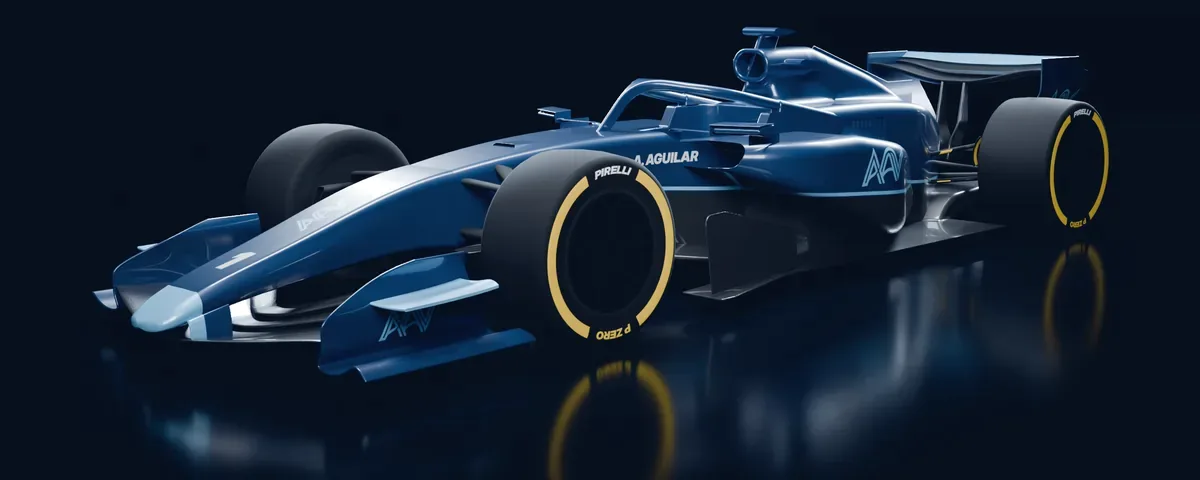
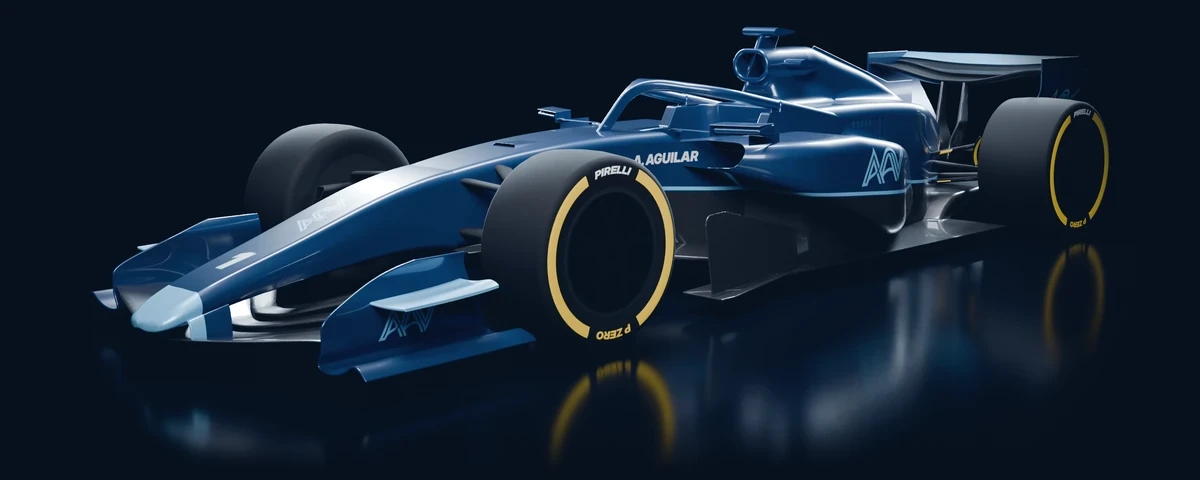
Hero: full-size centred car, image edges baked to page ground colour
Claude-Session: https://claude.ai/code/session_01YNAsmPSstyy3ufzkRWSRBH

diff --git a/index.html b/index.html
@@ -403,7 +403,7 @@ body::before{content:"";position:fixed;inset:0 0 auto;height:env(safe-area-inset
 .mode-figs dd{margin:0;font-size:16px;color:var(--ink-2)}
 .mode-figs b{font-weight:800;font-size:clamp(30px,3vw,46px);letter-spacing:-.03em;color:var(--ink);font-variant-numeric:tabular-nums}
 .mode-note{margin-top:10px;font-size:14.5px;color:var(--ink-3)}
-.stage-car{--w:min(calc(100% + 2 * max(20px,4.5vw)),max(640px,calc((100svh - 450px) * 2.5)));position:relative;width:var(--w);margin:clamp(8px,1.6vw,20px) 0 0 calc((100% - var(--w)) / 2);aspect-ratio:2.5/1;-webkit-mask-image:linear-gradient(to bottom,#000 0,#000 82%,transparent 100%),linear-gradient(to right,transparent 0,#000 4%,#000 96%,transparent 100%);-webkit-mask-composite:source-in;mask-image:linear-gradient(to bottom,#000 0,#000 82%,transparent 100%),linear-gradient(to right,transparent 0,#000 4%,#000 96%,transparent 100%);mask-composite:intersect;animation:drive 1.1s var(--ease) .12s both}
+.stage-car{position:relative;width:calc(100% + 2 * max(20px,4.5vw));margin:clamp(8px,1.6vw,20px) 0 0 calc(-1 * max(20px,4.5vw));aspect-ratio:2.5/1;animation:drive 1.1s var(--ease) .12s both}
 .stage-car img{position:absolute;inset:0;width:100%;height:100%;object-fit:cover;transition:opacity .6s ease,transform 1.2s var(--ease)}
 .stage-car .cx{opacity:0;transform:scale(1.015)}
 .stage[data-mode="x"] .stage-car .cx{opacity:1;transform:none}
